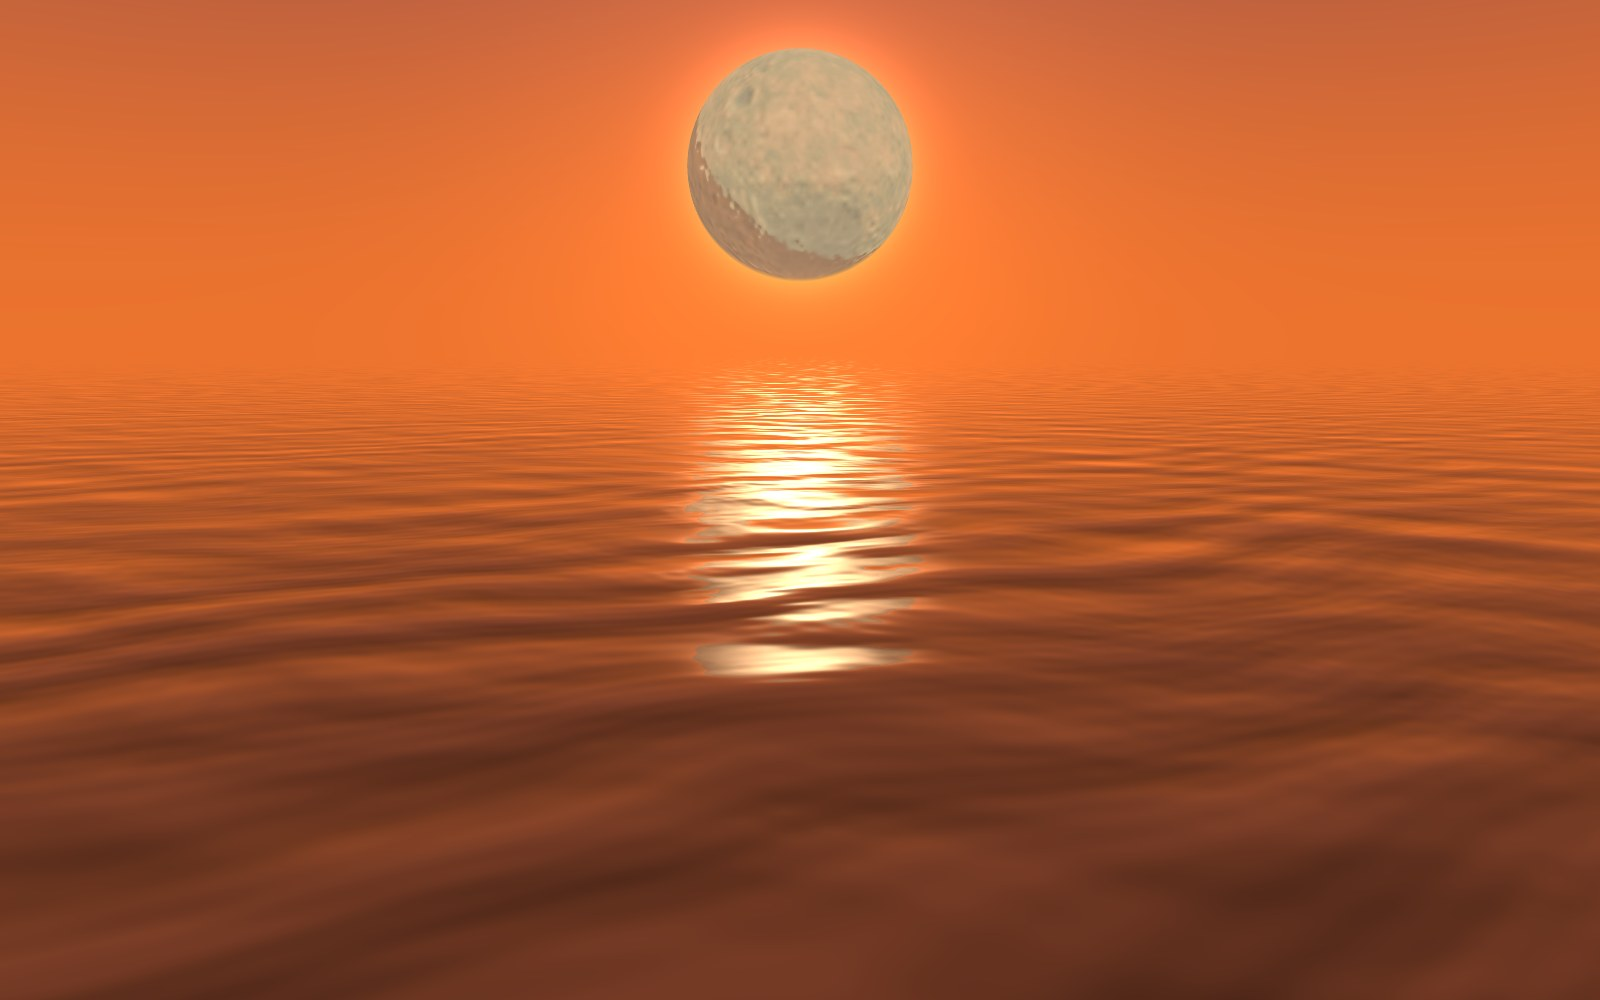
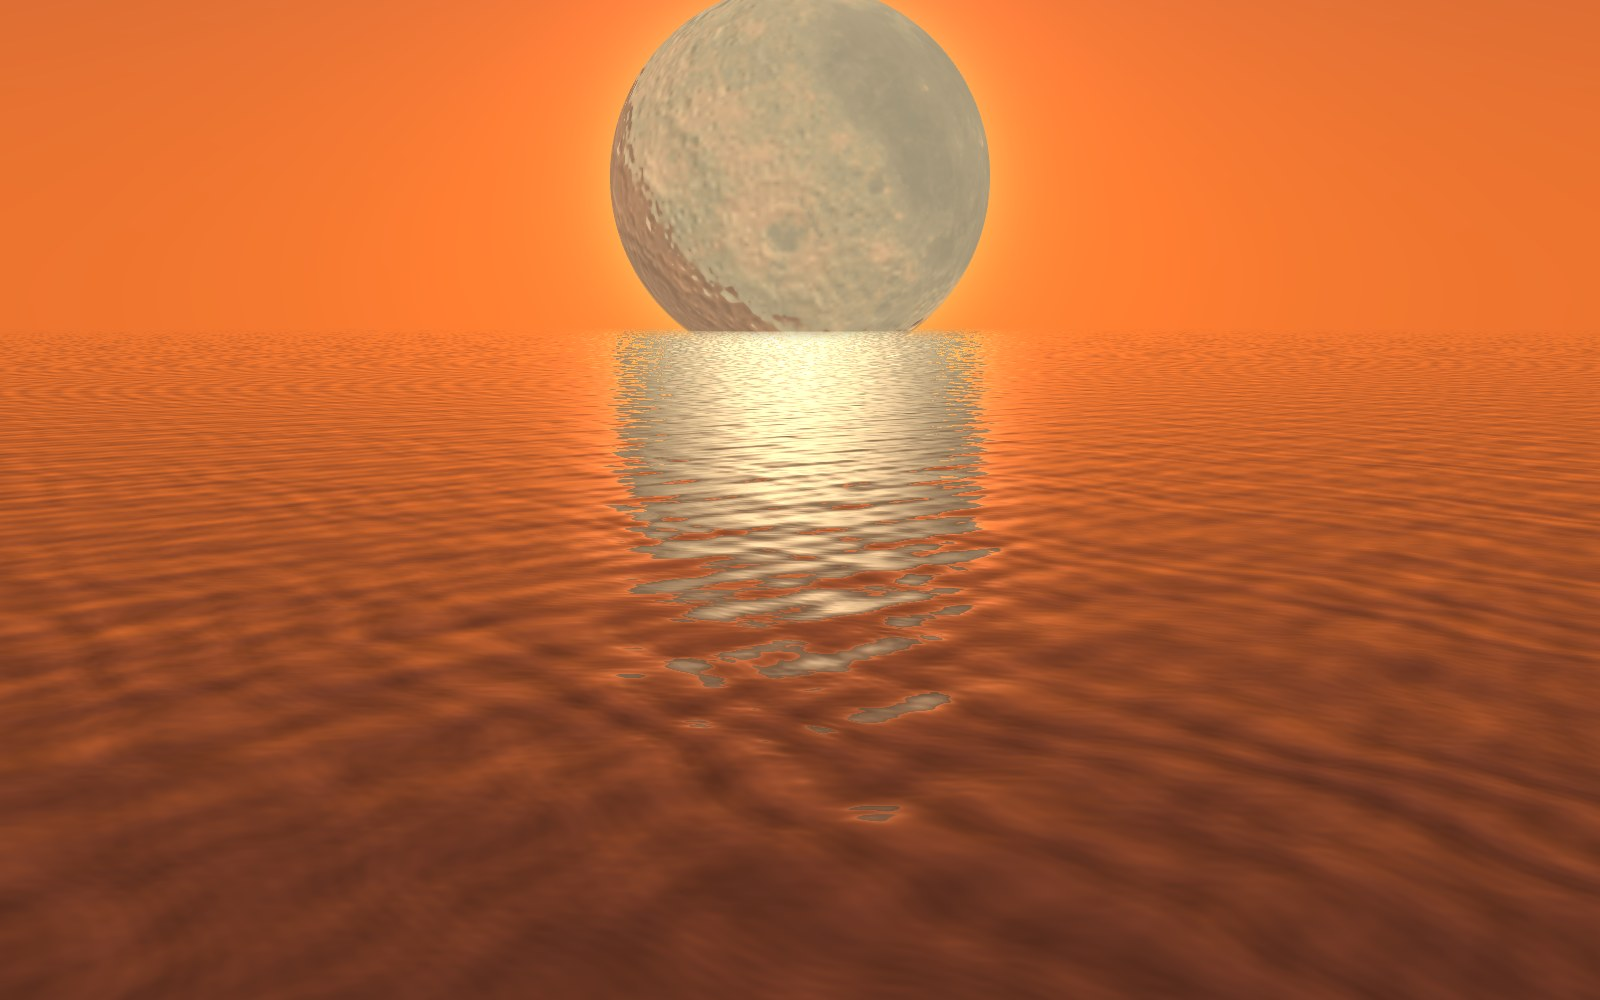
Transitions without turns: one camera rig above the water
- Above, Wide and Cut share one camera position and direction (+x); only
  tilt and zoom differ. Above is Wide zoomed in, so Above -> Wide is a zoom
  out; to or from Cut the camera tilts while the sea covers the cut, the moon
  sliding to its place.
- Under the water: the camera rises straight up through the surface at the
  rig's spot (looking up the same way), then lowers its gaze to the horizon as
  it pulls back; the reverse on the way down.
- Moves are timed by the clock, and the second water is drawn only while it
  shows (the moment of crossing), so they no longer drag.

diff --git a/public/games/flymetothemoon/index.html b/public/games/flymetothemoon/index.html
@@ -899,7 +899,7 @@
   let view = 'frank';
   const under = () => view === 'frank' || view === 'below';
   const views = (() => {
-    const V = { eyeZ: 0, eyeDepth: 3, cutMoon: [3.15, 5.7], side: false, wideMoon: new THREE.Vector3(0.3, 0.2, 1).normalize(), aboveMoon: new THREE.Vector3(0, 0.16, 1).normalize() };
+    const V = { eyeZ: 0, eyeDepth: 3, cutMoon: [3.15, 5.7], side: false, wideMoon: new THREE.Vector3(0.3, 0.2, 1).normalize(), aboveMoon: new THREE.Vector3(1, 0.07, 0).normalize() };   // (Above looks along +x, the moon low ahead)
     const own = {
       uZr: { value: new THREE.Vector2() }, uSunDir: { value: new THREE.Vector3() }, uCamPos: { value: new THREE.Vector3() },
       uEyeP: { value: new THREE.Vector3(0, -3, 0) }, uMoonScr: { value: new THREE.Vector3() }, uSideLight: { value: 0 },
@@ -1126,16 +1126,22 @@
       }`, { transparent: true, depthWrite: false }));
     const aboveSkyScene = new THREE.Scene(); aboveSkyScene.add(dome);
     aboveScene.add(sea);
+    // The views above the water share one camera rig: the same spot (Cut's), looking the same way (+x), with only the
+    // tilt and the zoom differing: Cut tilted down onto the cut, Wide level with the horizon and zoomed out, Above the
+    // same as Wide zoomed in. So moving between them is a tilt and a zoom, never a turn.
+    const LEVEL = 0.10;   // Above's and Wide's tilt below the horizon (radians)
     function placeAbove() {
-      aboveCam.aspect = innerWidth / innerHeight; aboveCam.position.set(0, 2.2, 0); aboveCam.lookAt(0, 2.2 - Math.tan(0.14) * 10, 10);
+      placeCut();
+      const p = cutCam.position;
+      aboveCam.aspect = innerWidth / innerHeight; aboveCam.fov = 30; aboveCam.position.copy(p); aboveCam.lookAt(p.x + 10, p.y - Math.tan(LEVEL) * 10, p.z);
       aboveCam.updateProjectionMatrix(); aboveCam.updateMatrixWorld();
     }
-    // Wide: from about where Cut's camera is, looking the same way, but tilted up enough to see the horizon
+    // Wide: Cut's camera, level with the horizon and zoomed out
     const wideCam = new THREE.PerspectiveCamera(52, 1, 0.1, 2000);
     function placeWide() {
       placeCut();
       const p = cutCam.position;
-      wideCam.aspect = innerWidth / innerHeight; wideCam.position.copy(p); wideCam.lookAt(p.x + 10, p.y - Math.tan(0.16) * 10, p.z);
+      wideCam.aspect = innerWidth / innerHeight; wideCam.position.copy(p); wideCam.lookAt(p.x + 10, p.y - Math.tan(LEVEL) * 10, p.z);
       wideCam.updateProjectionMatrix(); wideCam.updateMatrixWorld();
     }
     // entering Wide: the moon where it was on screen in Cut
@@ -1185,12 +1191,18 @@
     }
     const poseOf = (cam) => ({ pos: cam.position.clone(), quat: cam.quaternion.clone(), fov: cam.fov });
     // just above the water over the eye, looking up the way the camera under the water does (37 degrees)
-    const SURFACE = (() => { const c = new THREE.PerspectiveCamera(50); c.position.set(0, 0.12, 0); c.lookAt(0, 0.12 + Math.sin(0.648), Math.cos(0.648)); return poseOf(c); })();
+    const UNDER_MOON = new THREE.Vector3(0.819, 0.574, 0);   // the moon as the camera under the water has it, turned to the rig's way
+    function surfacePose() {
+      placeCut();
+      const c = new THREE.PerspectiveCamera(50), x = cutCam.position.x;
+      c.position.set(x, 0.12, CZ); c.lookAt(x + Math.cos(0.648), 0.12 + Math.sin(0.648), CZ);
+      return poseOf(c);
+    }
     function endState(v) {
       if (v === 'above') { placeAbove(); return { pose: poseOf(aboveCam), moon: V.aboveMoon.clone(), sin: TRUE_SIN, sea: 'above' }; }
       if (v === 'wide') { placeWide(); return { pose: poseOf(wideCam), moon: V.wideMoon.clone(), sin: cutSin(wideCam), sea: 'wide' }; }
       if (v === 'cut') { placeCut(); return { pose: poseOf(cutCam), moon: new THREE.Vector3(...cutMoonWorld()).sub(cutCam.position).normalize(), sin: cutSin(cutCam), sea: 'wide', cut: true }; }
-      return { pose: SURFACE, moon: DEFAULT_MOON.clone(), sin: TRUE_SIN, sea: 'above', under: true };
+      return { pose: surfacePose(), moon: UNDER_MOON.clone(), sin: TRUE_SIN, sea: 'above', under: true };
     }
     const ease = x => (x <= 0 ? 0 : x >= 1 ? 1 : x * x * (3 - 2 * x));
     const lerpPose = (p, q, k) => ({ pos: p.pos.clone().lerp(q.pos, k), quat: p.quat.clone().slerp(q.quat, k), fov: p.fov + (q.fov - p.fov) * k });
@@ -1217,33 +1229,32 @@
     V.transitioning = () => !!T;
     V.startTransition = (from, to) => {
       const a = endState(from), b = endState(to);
-      T = { a, b, t: 0, dur: a.under || b.under ? 2.6 : 1.5 };
+      T = { a, b, t0: performance.now(), dur: a.under || b.under ? 2.4 : 1.3 };
     };
     V.renderTransition = (dt, drawUnder) => {
-      T.t = Math.min(T.dur, T.t + dt);
-      const s = T.t / T.dur, { a, b } = T;
+      const s = Math.min(1, (performance.now() - T.t0) / 1000 / T.dur), { a, b } = T;   // by the clock, so slow frames don't drag it out
       if (!a.under && !b.under) {
         const cutW = a.cut && b.cut ? 1 : b.cut ? ease((s - 0.45) / 0.55) : a.cut ? 1 - ease(s / 0.55) : 0;
         drawAbove(a, b, ease(s), cutW);
-      } else if (b.under) {              // down to the water, through it, and on down
-        const SPLIT = 0.55;
-        if (s < SPLIT) { const k = ease(s / SPLIT); drawAbove(a, b, k, a.cut ? 1 - ease(k / 0.6) : 0); }
+      } else if (b.under) {              // down to the water (looking up), through it, and on down
+        const SPLIT = 0.5;
+        if (s < SPLIT) { const k = ease(s / SPLIT); drawAbove(a, b, k, a.cut ? 1 - ease(k / 0.4) : 0); }
         else {
-          const k = (s - SPLIT) / (1 - SPLIT);
-          intoMix(() => renderSea(b.sea, b.pose, b.moon, b.sin));
+          const k = (s - SPLIT) / (1 - SPLIT), seaA = 1 - ease(k / 0.2);   // the water above shows only for the crossing
+          if (seaA > 0.002) intoMix(() => renderSea(b.sea, b.pose, b.moon, b.sin));
           sink(0.04 + 2.96 * ease(k)); moonIn = ease((k - 0.15) / 0.6); drawUnder();
-          overMix(1 - ease(k / 0.3)); ov.style.opacity = 0;
+          overMix(seaA); ov.style.opacity = 0;
         }
-      } else {                           // up from the eye's depth, out through the surface, and on
-        const SPLIT = 0.45;
+      } else {                           // up from the eye's depth, out through the surface, then down to the horizon
+        const SPLIT = 0.4;
         if (s < SPLIT) {
-          const k = s / SPLIT;
-          intoMix(() => renderSea(a.sea, a.pose, a.moon, a.sin));
+          const k = s / SPLIT, seaA = ease((k - 0.8) / 0.2);
+          if (seaA > 0.002) intoMix(() => renderSea(a.sea, a.pose, a.moon, a.sin));
           sink(3 - 2.96 * ease(k)); moonIn = 1 - ease(k / 0.6); drawUnder();
-          overMix(ease((k - 0.7) / 0.3)); ov.style.opacity = 0;
-        } else { const k = ease((s - SPLIT) / (1 - SPLIT)); drawAbove(a, b, k, b.cut ? ease((k - 0.4) / 0.6) : 0); }
+          overMix(seaA); ov.style.opacity = 0;
+        } else { const k = ease((s - SPLIT) / (1 - SPLIT)); drawAbove(a, b, k, b.cut ? ease((k - 0.5) / 0.5) : 0); }
       }
-      if (T.t >= T.dur) { T = null; moonIn = 1; ov.style.opacity = 1; if (b.under) V.leave(); }
+      if (s >= 1) { T = null; moonIn = 1; ov.style.opacity = 1; if (b.under) V.leave(); }
     };
 
     // ---- pointer: drag the moon to spin it, Alt+drag to move it, tap or drag the water to stir; in Cut, drag the eye ----

diff --git a/README.md b/README.md
@@ -123,7 +123,7 @@ Three more views put the moon in the sky above the water, where you can move it.
 
 In all of them, the moon in the sky is the real one, the same 3D moon as in Below, with its colours, shading and spin, and its light (its beam to the eye, its glint, its path on the sea, the god rays) takes its colour under each sky: teal at night, gold at sunset, copper in the eclipse.
 
-**Above** looks across the water from just above it. The moon hangs over the sea with its path of light broken up on the waves, and the sea meets the sky at a soft horizon: a low moon sets into it, cut by the water, with only a sliver showing through where the far water fades out. Alt+drag to move the moon; drag it to spin it.
+**Above** looks out across the water toward the horizon, zoomed in: the same spot and direction as Cut and Wide, so the three differ only in how far the camera tilts and zooms. The moon hangs over the sea with its path of light broken up on the waves, and the sea meets the sky at a soft horizon: a low moon sets into it, cut by the water, with only a sliver showing through where the far water fades out. Alt+drag to move the moon; drag it to spin it.
 
 ![Above, at night](docs/screenshots/26-above.jpg)
 
@@ -162,7 +162,7 @@ The controls sit in the lower right: the sky presets and the five views along th
 
 Tap the water to drop a ripple, or drag across it to stir. In every view: drag the moon to spin it, Alt+drag to move it.
 
-Switching view moves the camera rather than cutting. Between Above and Wide it flies (and zooms) from one to the other, the moon sliding to its new place; to or from Cut it makes the same flight while Cut's lighting comes in or goes; between Cut and Wide, which share a camera, only the lighting changes. To Frank or Below it flies down to just above the water, turns to look up the way the camera under the water does, goes through the surface and sinks to its depth, Snell's window closing from the whole sky to its circle, and the reverse on the way out. Frank and Below glide into each other.
+Switching view moves the camera rather than cutting. The views above the water share one camera, looking the same way from the same spot, so moving between them only tilts and zooms it: Above to Wide zooms out; to or from Cut the camera tilts while the sea covers (or uncovers) the cut; the moon slides to its place in the new view. To Frank or Below the camera goes down to the water, looking up as the camera under it does, through the surface, and sinks to its depth, Snell's window closing from the whole sky to its circle; on the way out it rises through the surface and lowers its gaze to the horizon as it pulls back. Frank and Below glide into each other.
 
 ### Settings in the address
 
